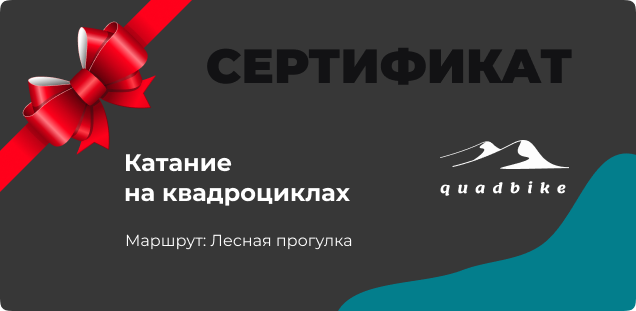
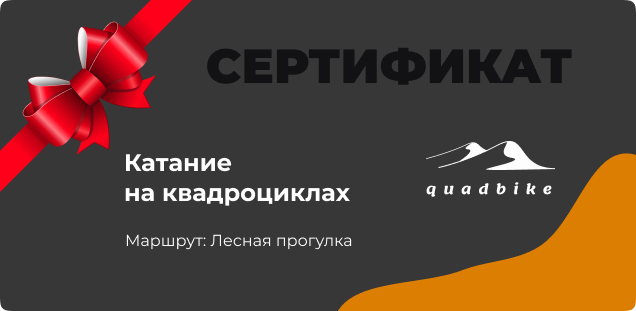
Add files via upload

Changed region(s): [[0.5079, 0.492, 1.0, 1.0], [0.6871, 0.4341, 0.8962, 0.5498]]

diff --git a/css/style.css b/css/style.css
@@ -147,11 +147,11 @@ body{
 }
 
 .menu__link:hover{
-  border-bottom: 2px solid #037E8C;
+  border-bottom: 2px solid #DB7E02;
 }
 
 .menu__item--active{
-  color: #037E8C;
+  color: #DB7E02;
 }
 
 .menu__item-phone{
@@ -209,7 +209,7 @@ body{
   line-height: 108.7%;
   color: #fff;
   padding: 19px 75px 19px 23px;
-  background: #037E8C;
+  background: #DB7E02;
   border-radius: 9px;
   position: relative;
   margin-bottom: auto;
@@ -253,7 +253,7 @@ body{
 }
 
 .slider__header .slick-active button{
-  background: #037E8C
+  background: #DB7E02;
 }
 
 .benefits{
@@ -336,7 +336,7 @@ body{
   position: absolute;
   width: 81px;
   height: 4px;
-  background-color: #037E8C;
+  background-color: #DB7E02;
   top: 50%;
   left: -111px;
   bottom: 50%;
@@ -404,21 +404,34 @@ body{
 .routes-more__btn{
   display: inline-block;
   line-height: 130%;
-  color: #037E8C;
-  border: 1.5px solid #037E8C;
+  color: #DB7E02;
+  border: 1.5px solid #DB7E02;
   border-radius: 9px;
   padding: 14px 44px 13px 45px;
   margin-right: 15px;
+  transition: all .3s;
+}
+
+.routes-more__btn:hover{
+  background-color: #DB7E02;
+  color: #fff;
 }
 
 .routes-book__btn{
   display: inline-block;
   line-height: 130%;
   color: #fff;
-  background: #037E8C;
+  background: #DB7E02;
+  border: 1.5px solid #DB7E02;
   border-radius: 9px;
   padding: 14px 29px 13px;
   margin-bottom: 148px;
+  transition: all .3s;
+}
+
+.routes-book__btn:hover{
+  color: #DB7E02;
+  background: #fff;
 }
 
 .slider__base,
@@ -503,16 +516,18 @@ body{
   border: none;
   margin: 0 8px;
   width: 8px;
-  height: 12px;
+  height: 14px;
   border-radius: 50%;
-  background-color: #121214;
+  /* background-color: #121214; */
+  background-color: transparent;
+  border: 1px solid #DB7E02;
 }
 
 .slider__base .slick-active button,
 .slider__advanced .slick-active button,
 .slider__experience .slick-active button,
 .slider__excursion .slick-active button{
-  background: #037E8C
+  background: #DB7E02;
 }
 
 .route-selection{
@@ -544,11 +559,17 @@ body{
   display: inline-block;
   line-height: 130%;
   color: #fff;
-  background: #037E8C;
+  background: #DB7E02;
   border-radius: 9px;
   padding: 14px 43px 13px 44px;
   border: none;
   cursor: pointer;
+  transition: all .3s;
+}
+
+.route-selection__btn:hover{
+  color: #DB7E02;
+  background: #fff;
 }
 
 .foto{
@@ -616,13 +637,15 @@ body{
   border: none;
   margin: 0 8px;
   width: 8px;
-  height: 12px;
+  height: 14px;
   border-radius: 50%;
-  background-color: #121214;
+  /* background-color: #121214; */
+  background-color: transparent;
+  border: 1px solid #DB7E02;
 }
 
 .slider__foto .slick-active button{
-  background: #037E8C
+  background: #DB7E02;
 }
 
 .video{
@@ -721,7 +744,7 @@ body{
   font-weight: 700;
   font-size: 24px;
   line-height: 130%;
-  color: #037E8C;
+  color: #DB7E02;
 }
 .team__item-position{
   font-weight: 400;
@@ -837,7 +860,7 @@ body{
   font-weight: 800;
   font-size: 36px;
   line-height: 130%;
-  color: #037E8C;
+  color: #DB7E02;
   width: 247px;
 }
 
@@ -854,15 +877,21 @@ body{
 
 .special-offers__discount-btn{
   line-height: 130%;
-  color: #037E8C;
+  color: #DB7E02;
   padding: 14px 44px 13px 45px;
   display: inline-block;
-  border: 1.5px solid #037E8C;
+  border: 1.5px solid #DB7E02;
   border-radius: 9px;
   margin-top: 14px;
   position: relative;
   z-index: 3;
   cursor: pointer;
+  transition: all .3s;
+}
+
+.special-offers__discount-btn:hover{
+  background-color: #DB7E02;
+  color: #fff;
 }
 
 .gift-certificate{
@@ -904,10 +933,16 @@ body{
 .gift-certificates__item-btn{
   display: inline-block;
   line-height: 130%;
-  color: #037E8C;
-  border: 1.5px solid #037E8C;
+  color: #DB7E02;
+  border: 1.5px solid #DB7E02;
   border-radius: 9px;
   padding: 14px 22px 13px 23px;
+  transition: all .3s;
+}
+
+.gift-certificates__item-btn:hover{
+  background-color: #DB7E02;
+  color: #fff;
 }
 
 .questions{
@@ -949,7 +984,7 @@ body{
 }
 
 .questions__item--active{
-  border: 0.5px solid #037E8C;
+  border: 0.5px solid #DB7E02;
   border-radius: 2px;  
 }
 
@@ -1013,9 +1048,16 @@ body{
 .questions__box-btn{
   line-height: 130%;
   color: #fff;
-  background: #037E8C;
+  background: #DB7E02;
   border-radius: 9px;
   padding: 13px 33px 14px 33px;
+  border: 1px solid #DB7E02;
+  transition: all .3s;
+}
+
+.questions__box-btn:hover{
+  color: #DB7E02;
+  background: #fff;
 }
 
 .additional-services{
@@ -1046,7 +1088,7 @@ body{
 .additional-services__text{
   font-size: 18px;
   line-height: 130%;
-  color: #037E8C;
+  color: #DB7E02;
   padding: 22px 90px 26px 24px;
 }
 
@@ -1060,7 +1102,7 @@ body{
 
 .contacts__title{
   text-align: left;
-  border-top: 3px solid #037E8C;
+  border-top: 3px solid #DB7E02;
   width: 635px;
   margin-bottom: 64px;
 }
@@ -1110,6 +1152,7 @@ body{
   top: 0;
   right: 0;
   width: 49%;
+  filter: grayscale(100%);
 }
 
 .footer__top{
@@ -1176,8 +1219,8 @@ body{
 .excursion__btn{
   display: inline-block;
   line-height: 130%;
-  color: #037E8C;
-  border: 1.5px solid #037E8C;
+  color: #DB7E02;
+  border: 1.5px solid #DB7E02;
   border-radius: 9px;
   padding: 13px 24px 14px 25px;
   /* margin-right: 15px; */
@@ -1255,7 +1298,7 @@ body{
   font-weight: 700;
   font-size: 20px;
   line-height: 130%;
-  color: #037E8C;
+  color: #DB7E02;
   padding: 0 0 9px;
 }
 

diff --git a/index.html b/index.html
@@ -621,7 +621,7 @@
     <div class="container">
       <div class="footer__top">
         <a class="footer__logo" href="#body">
-          <img class="footer__logo-img" src="images/logo/footer-logoone.svg" alt="logo">
+          <img class="footer__logo-img" src="images/logo/footer-logo.svg" alt="logo">
         </a>
         <div class="footer__menu">
           <ul class="footer__menu-list">
